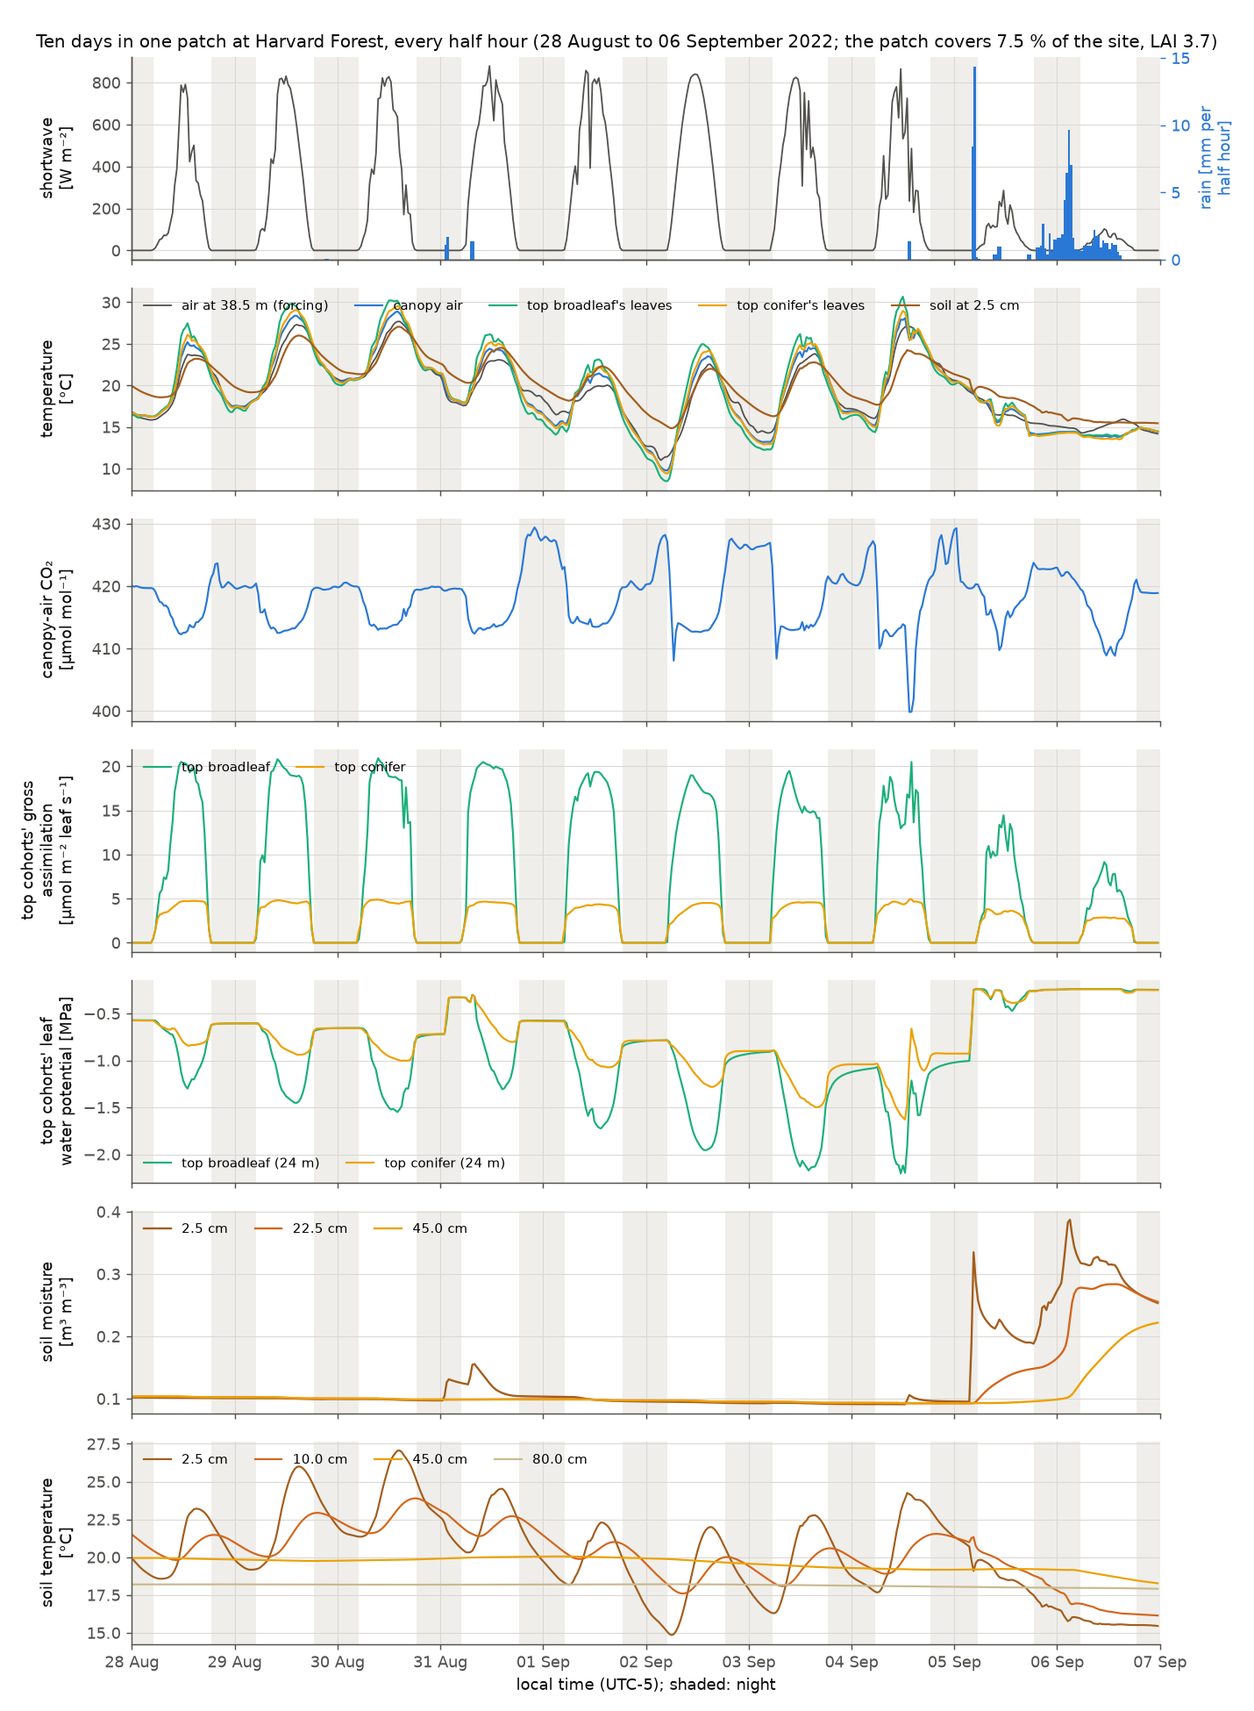
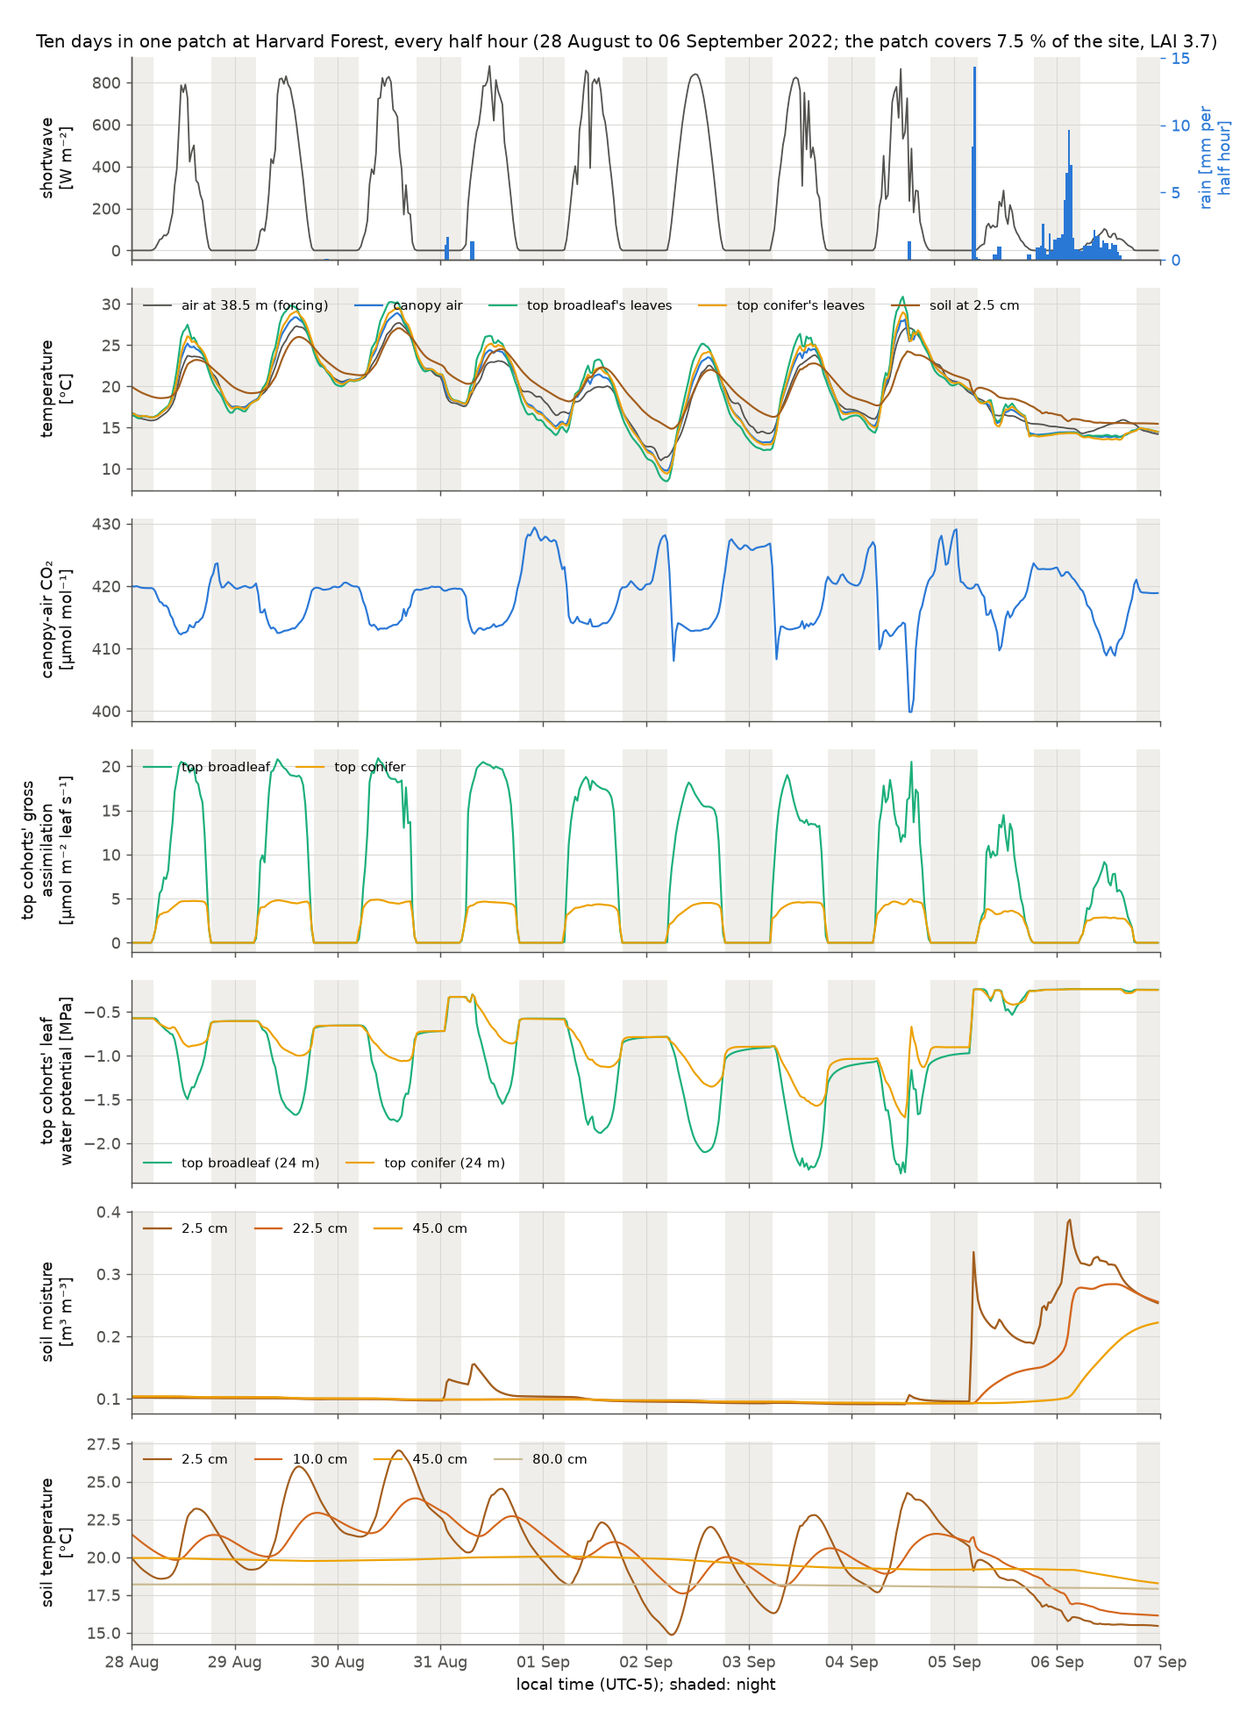
science(hydraulics): leaf hydraulic conductance in series with the xylem; no vessel_curl (#93)
* science(hydraulics): leaf hydraulic conductance in series with the xylem; no vessel_curl

The wood-to-leaf conductance is now the sapwood's and the leaves' in series,
1/k = 1/k_xylem + 1/k_leaf (docs/science/plant_hydraulics.md eq. (10)), with
k_xylem = wood_kmax * sapwood area / height and k_leaf = leaf_kmax * leaf area.
The vulnerability curve applies to the series conductance, so the Kirchhoff
form of eq. (9) is unchanged, and the water network gains no node.

- New required [hydraulics] key leaf_kmax [mmol/m2/s/MPa], with measured
  values and their sources in every PFT file: BCI (Sack, Tyree & Holbrook
  2005), Harvard Forest (Sack et al. 2003; Brodribb, Feild & Jordan 2007),
  Guanacaste dry forest (Brodribb & Holbrook 2003).
- vessel_curl is removed: ED2's unmeasured path factor (1.5).
- plant_max_conductance (ed_plant_hydr_lib) composes xylem_max_conductance
  and leaf_max_conductance; the fast state's k_xylem is k_plant.
- A leafless plant has no leaf conductance and keeps the floor; its leaf
  node takes the wood's potential less the crown head, as before.

* docs(examples): example 04's results with the leaf conductance in series

BCI's tables and the two sites' window paragraphs from the reruns (ifx dev):
BCI's numbers had last been drawn from v0.4.0; Harvard's means are unchanged
at the printed precision. The figures are redrawn.

* docs(changelog): the leaf conductance in series and leaf_kmax (#93)

---------

diff --git a/docs/science/plant_hydraulics.md b/docs/science/plant_hydraulics.md
@@ -90,21 +90,29 @@ K_{ij}=k_{\text{cond}}\,\frac{\Phi(\psi_{up})-\Phi(\psi_{down})}{\psi_{up}-\psi_
 \;\xrightarrow[\Delta\psi\to0]{}\; k_{\text{cond}}\,k(\psi) \qquad(9)
 ```
 
-$k_{\text{cond}}$ is the maximum (fully hydrated) per-plant conductance, the sapwood's over the path from the stem base to the crown:
+$k_{\text{cond}}$ is the maximum (fully hydrated) per-plant conductance from the wood to the leaves. Two parts carry the water in series: the sapwood, from the stem base to the crown, and the leaves, from the petiole to the sites of evaporation:
 
 ```math
-k_{\text{cond}}=\frac{K_s\,A_{sap}}{H\cdot\text{vessel\_curl}} \qquad(10)
+\frac{1}{k_{\text{cond}}}=\frac{1}{k_{\text{xylem}}}+\frac{1}{k_{\text{leaf}}},\qquad
+k_{\text{xylem}}=\frac{K_s\,A_{sap}}{H},\qquad
+k_{\text{leaf}}=K_L\,M_w\,\mathrm{LA} \qquad(10)
 ```
 
 ```math
 K_s=\exp\!\left(2.348-2.455\,\rho+\tfrac{1}{2}\,0.6186\right) \qquad(11)
 ```
 
-$A_{sap}$ is the sapwood area of the stem allometry, $H$ the plant's height, and `vessel_curl` (1.5, as in ED2) lengthens the path beyond the height. $K_s$ [kg m⁻¹ s⁻¹ MPa⁻¹], the sapwood specific conductivity, is a PFT trait, `[hydraulics].wood_kmax`. The shipped PFTs take it from their wood density $\rho$ [g cm⁻³] through the fit of Xu et al. (2016, New Phytol 212:80) to 72 species of neotropical seasonally dry forests, as ED2 codes it (`plant_hydro_scheme` 2), eq. (11). The fit is computed outside the model, by `scripts/prepare_input/pft_traits`. It is lognormal, so the residual variance 0.6186 turns its median into the mean (×1.36); $\rho$ outside 0.35–0.95 takes the nearest edge. $K_s$ is 6.0 at $\rho$ = 0.35, 3.3 at 0.60 and 1.4 at 0.95. Wood density explains a fifth of the variance ($R^2$ 0.21): one species' $K_s$ can lie a factor of 2 either side. Branches of Panama canopy trees span about 1.6–12, and 2–4 at $\rho$ = 0.6 (Meinzer et al. 2008), and FATES's default is 3.0. For a 35 m BCI canopy tree (72 cm dbh, 0.30 m² of sapwood, 553 m² of leaf) the 0.60 value gives $k_{\text{cond}}$ = 0.019 kg s⁻¹ MPa⁻¹: 1.9 mmol m⁻² s⁻¹ MPa⁻¹ per unit leaf area, and 63 g m⁻² s⁻¹ MPa⁻¹ per unit sapwood, inside the 25–131 measured from soil to branch on Panama canopy trees (Meinzer et al. 2003).
+$A_{sap}$ is the sapwood area of the stem allometry and $H$ the plant's height, the xylem's path. ED2 lengthens that path by a factor of 1.5 (`vessel_curl`) with no measurement behind it; here the leaves' measured resistance, in series, carries the rest of the path. $K_s$ [kg m⁻¹ s⁻¹ MPa⁻¹], the sapwood specific conductivity, is a PFT trait, `[hydraulics].wood_kmax`. The shipped PFTs take it from their wood density $\rho$ [g cm⁻³] through the fit of Xu et al. (2016, New Phytol 212:80) to 72 species of neotropical seasonally dry forests, as ED2 codes it (`plant_hydro_scheme` 2), eq. (11). The fit is computed outside the model, by `scripts/prepare_input/pft_traits`. It is lognormal, so the residual variance 0.6186 turns its median into the mean (×1.36); $\rho$ outside 0.35–0.95 takes the nearest edge. $K_s$ is 6.0 at $\rho$ = 0.35, 3.3 at 0.60 and 1.4 at 0.95. Wood density explains a fifth of the variance ($R^2$ 0.21): one species' $K_s$ can lie a factor of 2 either side. Branches of Panama canopy trees span about 1.6–12, and 2–4 at $\rho$ = 0.6 (Meinzer et al. 2008), and FATES's default is 3.0.
+
+$K_L$ [mmol m⁻² s⁻¹ MPa⁻¹], the leaf hydraulic conductance per unit leaf area, is a PFT trait, `[hydraulics].leaf_kmax`, in the unit leaf hydraulics is measured in; $M_w$ (18.015 g mol⁻¹, `mmh2o`) turns it into kg, and LA is the plant's leaf area. Leaves hold a large share of a plant's resistance, often a third or more (Sack & Holbrook 2006). On Barro Colorado Island, 10 canopy species span 2.2–21 mmol m⁻² s⁻¹ MPa⁻¹, sun-establishing species about three times shade-establishing ones (Sack, Tyree & Holbrook 2005); temperate woody sun leaves span about 5–14 (Sack et al. 2003), and Harvard Forest's sugar maple has a lamina conductance of 6.9 (Sack et al. 2002). The leaf term scales with the leaves present, so the leaf conductance grows as a canopy flushes and a leafless plant has none.
+
+For a 35 m BCI canopy tree (72 cm dbh, 0.30 m² of sapwood, 553 m² of leaf), the 0.60 wood density's $K_s$ gives $k_{\text{xylem}}$ = 0.028 kg s⁻¹ MPa⁻¹, and a $K_L$ of 10 gives $k_{\text{leaf}}$ = 0.100. In series, $k_{\text{cond}}$ = 0.022 kg s⁻¹ MPa⁻¹: 2.2 mmol m⁻² s⁻¹ MPa⁻¹ per unit leaf area, and 73 g m⁻² s⁻¹ MPa⁻¹ per unit sapwood, inside the 25–131 measured from soil to branch on Panama canopy trees (Meinzer et al. 2003). The leaves hold 22 % of this tree's resistance. Small stems hold more: their xylem path is short, so their leaves carry most of it.
+
+The vulnerability curve of eq. (7) applies to the series conductance as a whole, so eq. (9) keeps its exact Kirchhoff form. Separate curves for xylem and leaves would need the potential between the two parts inside every evaluation of the water network's Newton.
 
 For general $`a\notin\{1,2\}`$ the Kirchhoff integral, eq. (8), is precomputed once into a fixed uniform-grid **lookup table** $G(r)$ over $`0\le r\le 8`$ and read by linear interpolation on the hot path (the closed forms are kept for $`a\in\{1,2\}`$). The table stores the $r$-normalized $G$, so $\psi_{50}$ is a runtime scale. It is built panel by panel, so it rises monotonically, and past $r = 8$ the tail $`\int u^{-a}\,du`$ is added analytically, so the potential keeps approaching its asymptote even for a leaf dried far beyond the vulnerability curve. Each of the table's 512 intervals is one 7-point Gauss–Legendre panel: a single rule over a long range misses the integrand's fall near $u = 1$ (at $r$ = 7800 and $a$ = 4 it gives about 10⁻⁶ instead of 1.11), which would hand the xylem of a desiccated leaf a negative conductance.
 
-**In the flow.** Above zero potential nothing is embolised, so the sapflow takes $\Phi(\psi) = \psi$ there. When the two ends of eq. (9) are within 10⁻⁶ MPa, the conductance and its slopes are taken at their midpoint, where the difference quotient loses its digits. Farther apart, for $a=2$ with both ends at or below zero, the difference is one arctangent, $`\Phi(\psi_{up})-\Phi(\psi_{down})=\psi_{50}\arctan\big((r_{up}-r_{down})/(1+r_{up}\,r_{down})\big)`$, which keeps the digits two close potentials share. The slopes in the solver's Jacobian are those of exactly the $\Phi$ computed (the retained fraction for the closed forms, the slope of the table's linear piece inside the table, the tail's beyond it), so the Jacobian is the derivative of the flow that moves the water. A fully embolised cohort keeps a 10⁻¹² share of $k_{\text{cond}}$, and a plant with no sapwood yet a $k_{\text{cond}}$ of 10⁻¹⁵ kg s⁻¹ MPa⁻¹, so the leaves of every cohort stay joined to its wood and its equations stay solvable.
+**In the flow.** Above zero potential nothing is embolised, so the sapflow takes $\Phi(\psi) = \psi$ there. When the two ends of eq. (9) are within 10⁻⁶ MPa, the conductance and its slopes are taken at their midpoint, where the difference quotient loses its digits. Farther apart, for $a=2$ with both ends at or below zero, the difference is one arctangent, $`\Phi(\psi_{up})-\Phi(\psi_{down})=\psi_{50}\arctan\big((r_{up}-r_{down})/(1+r_{up}\,r_{down})\big)`$, which keeps the digits two close potentials share. The slopes in the solver's Jacobian are those of exactly the $\Phi$ computed (the retained fraction for the closed forms, the slope of the table's linear piece inside the table, the tail's beyond it), so the Jacobian is the derivative of the flow that moves the water. A fully embolised cohort keeps a 10⁻¹² share of $k_{\text{cond}}$, and a plant with no sapwood or no leaves a $k_{\text{cond}}$ of 10⁻¹⁵ kg s⁻¹ MPa⁻¹, so the leaves of every cohort stay joined to its wood and its equations stay solvable. A leafless cohort's leaf node takes the wood's potential less the head to the crown (§2), not a flow.
 
 ## 4. Root water uptake
 
@@ -159,7 +167,7 @@ These are the PFT file's `[hydraulics]` keys (record `plant_hydraulics_t`). Each
 | $\psi_{50}$ | `wood_psi50` | xylem potential at 50 % loss of conductance [MPa] |
 | $a$ | `wood_kexp` | vulnerability-curve shape [–] |
 | $K_s$ | `wood_kmax` | sapwood specific conductivity [kg m⁻¹ s⁻¹ MPa⁻¹]; the shipped values from wood density, eq. (11) (`scripts/prepare_input/pft_traits`) |
-| — | `vessel_curl` | tortuosity / path-length factor [–] |
+| $K_L$ | `leaf_kmax` | leaf hydraulic conductance per unit leaf area, petiole to the sites of evaporation [mmol m⁻² s⁻¹ MPa⁻¹]; in series with the xylem, eq. (10) |
 | $\beta$ | `root_beta` | the root profile within the rooting depth [–], $0<\beta<1$ (ED2: 0.1) |
 | $`b_{1Rd}, b_{2Rd}`$ | `root_depth_b1`, `root_depth_b2` | rooting depth $`b_{1Rd}\,h^{b_{2Rd}}`$ [m], capped at the soil column (ED2 IALLOM 1) |
 | SRL | `specific_root_length` | fine-root length per unit fine-root carbon [m kgC⁻¹] |
@@ -175,7 +183,7 @@ These are the PFT file's `[hydraulics]` keys (record `plant_hydraulics_t`). Each
 | vulnerability curve | `ed_plant_hydr_lib`: `conductance_retained_fraction` |
 | Kirchhoff potential and mean | `ed_plant_hydraulics`: `kirchhoff_potential` (closed forms, or the PFT's table); the Kirchhoff mean conductance inside `xylem_sapflow`, from `kirchhoff_difference` |
 | Kirchhoff table | `kirchhoff_table_t` (`ed_pft_params`), built at load by `build_kirchhoff_table` (`ed_pft_derive`: one 7-point Gauss–Legendre panel per interval, written out in `kirchhoff_panel`); `kirchhoff_tail` past the table (`ed_plant_hydraulics`) |
-| xylem and root conductances | `ed_plant_hydr_lib`: `xylem_max_conductance`, `rhizosphere_conductance`, `root_fraction_profile` |
+| wood-to-leaf and root conductances | `ed_plant_hydr_lib`: `plant_max_conductance` (`xylem_max_conductance` and `leaf_max_conductance` in series), `rhizosphere_conductance`, `root_fraction_profile`; per cohort in `derive_cohort_terms` (`ed_fast_state`) |
 | xylem and root flows | `ed_plant_hydraulics`: `xylem_sapflow`, `root_water_uptake`, `root_water_uptake_profile`, and the leaves' supply limit `supply_limited_transpiration` |
 | rooting depth and profile | `ed_plant_hydraulics`: `cohort_root_depth`, `cohort_root_profile`; `crown_gravity_head`, `leaf_node_psi` |
 | the solve | `ed_fast_integ_backward_euler`: `water_step` ([soil_plant_water](soil_plant_water.md)) |
@@ -183,6 +191,10 @@ These are the PFT file's `[hydraulics]` keys (record `plant_hydraulics_t`). Each
 
 ## References
 - Xu, Medvigy, Powers, Becknell & Guan (2016), *New Phytologist* — X16 hydraulics.
+- Sack & Holbrook (2006), *Annual Review of Plant Biology* 57:361–381 — leaf hydraulics.
+- Sack, Tyree & Holbrook (2005), *New Phytologist* 167:403–413, doi:10.1111/j.1469-8137.2005.01432.x — leaf hydraulic conductance of 10 BCI tree species.
+- Sack, Melcher, Zwieniecki & Holbrook (2002), *Journal of Experimental Botany* 53:2177–2184, doi:10.1093/jxb/erf069 — lamina conductance of Harvard Forest trees.
+- Sack, Cowan, Jaikumar & Holbrook (2003), *Plant, Cell & Environment* 26:1343–1356 — leaf hydraulics of temperate woody species.
 - Bartlett, Scoffoni & Sack (2012); Tyree & Hammel (1972) — pressure–volume theory.
 - Gardner (1960) *Soil Science* 89:63–73; Cowan (1965) *J. Appl. Ecol.* 2:221–239 — single-root rhizosphere conductance.
 - Christoffersen (2013), PhD thesis, University of Arizona — the rooting-depth allometry (ED2 IALLOM 1).

diff --git a/examples/example04_column_biophysics/sites/bci/README.md b/examples/example04_column_biophysics/sites/bci/README.md
@@ -96,19 +96,19 @@ calendar month's hours of the day averaged over the years: [`evaluation.py`](../
 
 | | tower | target | default | calibrated |
 |---|---|---|---|---|
-| GPP [µmol m⁻² s⁻¹] | 7.64 | 8.43 | 10.78 | 8.99 |
-| LE [W m⁻²] | 76.7 | 76.7 | 82.9 | 68.5 |
-| H [W m⁻²] | 35.1 | 72.6 | 73.6 | 84.8 |
-| NEE [µmol m⁻² s⁻¹] | −4.42 | | −4.09 | −3.24 |
-| net radiation [W m⁻²] | 136.0 | | 139.7 | 139.1 |
+| GPP [µmol m⁻² s⁻¹] | 7.64 | 8.43 | 10.74 | 8.93 |
+| LE [W m⁻²] | 76.7 | 76.7 | 80.8 | 66.5 |
+| H [W m⁻²] | 35.1 | 72.6 | 74.8 | 86.3 |
+| NEE [µmol m⁻² s⁻¹] | −4.42 | | −4.05 | −3.19 |
+| net radiation [W m⁻²] | 136.0 | | 139.8 | 139.1 |
 
-- **Carbon:** the calibration brings GPP from 28 % above its target to 7 % above. Through the year the
+- **Carbon:** the calibration brings GPP from 27 % above its target to 6 % above. Through the year the
   model's GPP is highest in the dry season (March) and the tower's in the wet season (June–August).
 - **Energy:** the model's canopy still reflects more than the tower sees (daytime albedo 0.163–0.168
   against 0.131), but its net radiation, the leaves', the wood's and the ground's as their balances
-  book it, is within 3–4 W m⁻² of the tower's. The default's H is 1 % above the target; the calibrated
-  run's is 17 % above it.
-- **Water:** the calibration lowers LE to 68.5 W m⁻², below the tower's 76.7, although it improves LE
+  book it, is within 3–4 W m⁻² of the tower's. The default's H is 3 % above the target; the calibrated
+  run's is 19 % above it.
+- **Water:** the calibration lowers LE to 66.5 W m⁻², below the tower's 76.7, although it improves LE
   on the validation windows.
 - Whole-site energy and water close in both runs.
 
@@ -125,8 +125,8 @@ LAI 5.4) and its tallest tree.
   top tree's leaves 2.7–5.5 K above it at midday. The soil at 2.5 cm swings 1–5.5 K a day.
 - **Canopy-air CO₂** falls to about 399 µmol mol⁻¹ by day as the canopy draws it down, and builds up
   again to 404–409 at night, and to 415 in the calm last night.
-- **Leaf water potential** refills to about −0.5 MPa each night of the dry spell (−0.31 after the
-  storm) and falls to −1.3 MPa at midday on the bright days: the tension that pulls the day's
+- **Leaf water potential** refills to −0.5 to −0.6 MPa each night of the dry spell (−0.36 after the
+  storm) and falls to −1.2 to −1.3 MPa at midday on the bright days: the tension that pulls the day's
   transpiration up through the sapwood. Panama's canopy trees measure −0.6 to −1.0 MPa before dawn
   and −1.4 to −2.0 at midday in a dry season, so the model's tree is at the wet end of the measured
   range.

diff --git a/examples/example04_column_biophysics/sites/harvard/README.md b/examples/example04_column_biophysics/sites/harvard/README.md
@@ -188,11 +188,12 @@ are the last days of the 2022 drought: eight bright days with showers of 5.5 mm 
 (4 September), then 97 mm on 5–6 September. The figure shows the largest patch holding both PFTs (7.5 %
 of the site, LAI 3.7) and each PFT's tallest cohort, both 24 m.
 - **The soil is dry but not empty:** every layer down to 1.5 m holds 0.10 m³ m⁻³ on 28 August (the
-  residual is 0.079), and 0.093 by 4 September. The broadleaf's leaf water potential falls to −1.3 to
-  −1.6 MPa at midday, and to −2.2 by 3–4 September; the conifer's to −1.0, then −1.6. The 5.5 mm shower
-  wets only the top layer, yet raises both trees' night-time potential from −0.72 to −0.35 MPa for a day.
-- **Both trees keep assimilating:** the broadleaf at 19–20 µmol m⁻² s⁻¹ at midday until 1 September and
-  15 by 3–4 September, the conifer at 4.5. On 28–30 August, 10–15 h, the tower's LE is 200 W m⁻² and
+  residual is 0.079), and 0.093 by 4 September. The broadleaf's leaf water potential falls to −1.5 to
+  −1.9 MPa at midday, and to −2.3 by 3–4 September; the conifer's to −0.9 to −1.1, then −1.7. The 5.5 mm
+  shower wets only the top layer, yet raises both trees' night-time potential from −0.65 to −0.33 MPa for a
+  day.
+- **Both trees keep assimilating:** the broadleaf at 19–20 µmol m⁻² s⁻¹ at midday until 31 August, 18
+  on 1 September and 14 by 3–4 September, the conifer at 4.5. On 28–30 August, 10–15 h, the tower's LE is 200 W m⁻² and
   its GPP 24 µmol m⁻² s⁻¹; the model's 173 and 26. After the storm the model overshoots (LE 242
   against 211 on 8–10 September).
 - **Temperatures:** only the air at 38.5 m is forcing. At midday on the bright days the broadleaf's

diff --git a/CHANGELOG-v0.md b/CHANGELOG-v0.md
@@ -55,6 +55,10 @@ This file covers every 0.x release; version 1.0 starts `CHANGELOG-v1.md`. The fo
   after `coh_leaf_vis`; `edmore.canopy` passes it. (#85)
 - Example 04 holds one folder per site: BCI's files are in `examples/example04_column_biophysics/sites/bci/`,
   and its `run_example.py` is `run_site.py` there. (#91)
+- `[hydraulics]` has a new required key, `leaf_kmax` [mmol m⁻² s⁻¹ MPa⁻¹]: the leaves' hydraulic
+  conductance per unit leaf area, in series with the sapwood's. `vessel_curl` is removed and stops the run.
+  The shipped and example PFT files carry measured values, each with its source; add the key to your own
+  PFT files. (#93)
 
 ### Answer changes
 
@@ -129,6 +133,11 @@ This file covers every 0.x release; version 1.0 starts `CHANGELOG-v1.md`. The fo
   default 4.7 °C and 0.4 K⁻¹). At Harvard Forest the conifers' sunny-hour GPP in January falls from
   2.05 to 0.38 µmol m⁻² s⁻¹ (tower 0.01), and December–February's NEE turns from a sink to a source;
   BCI moves by about 0.1 % or less. (#91)
+- The wood-to-leaf conductance is the sapwood's and the leaves' in series, without ED2's path factor 1.5.
+  At BCI the stand's conductance is about unchanged: the top tree's midday leaf water potential rises by
+  0.07–0.15 MPa, and GPP, LE and H move by under 0.1 %. At Harvard Forest the broadleaves' midday potential
+  falls by 0.13–0.24 MPa in the August 2022 drought and their assimilation by up to 1.6 µmol m⁻² s⁻¹ on
+  1–4 September; the six-year means move by under 0.1 %. (#93)
 
 ### Added
 

diff --git a/examples/example04_column_biophysics/README.md b/examples/example04_column_biophysics/README.md
@@ -34,8 +34,8 @@ is u\*-filtered), and a plain mean over its measured hours would be mostly a mea
 
 | Site, run | GPP [µmol m⁻² s⁻¹] tower / model | LE [W m⁻²] | H [W m⁻²] | net radiation [W m⁻²] |
 |---|---|---|---|---|
-| BCI, default | 7.64 / 10.78 | 76.7 / 82.9 | 35.1 / 73.6 | 136.0 / 139.7 |
-| BCI, calibrated | 7.64 / 8.99 | 76.7 / 68.5 | 35.1 / 84.8 | 136.0 / 139.1 |
+| BCI, default | 7.64 / 10.74 | 76.7 / 80.8 | 35.1 / 74.8 | 136.0 / 139.8 |
+| BCI, calibrated | 7.64 / 8.93 | 76.7 / 66.5 | 35.1 / 86.3 | 136.0 / 139.1 |
 | Harvard, default | 4.56 / 4.87 | 41.1 / 50.3 | 25.2 / 47.5 | 87.3 / 88.0 |
 | Harvard, calibrated | 4.56 / 5.22 | 41.1 / 45.0 | 25.2 / 51.3 | 87.3 / 87.3 |
 

diff --git a/docs/configuration.md b/docs/configuration.md
@@ -367,7 +367,8 @@ it. Every `[allometry]` and `[hydraulics]` key takes one value, for every PFT, o
 per PFT.
 
 `[hydraulics]` holds the leaf and wood pressure–volume curves, the xylem's vulnerability (`wood_psi50`,
-`wood_kexp`), its sapwood specific conductivity `wood_kmax` and path factor `vessel_curl`, and the roots
+`wood_kexp`), its sapwood specific conductivity `wood_kmax`, the leaves' hydraulic conductance per unit leaf
+area `leaf_kmax` [mmol m⁻² s⁻¹ MPa⁻¹] in series with the xylem, and the roots
 (`root_beta`, `root_depth_b1`/`root_depth_b2`, `specific_root_length`, `fine_root_radius`). The root
 profile is a plant trait, so these keys live in the PFT file only.
 
